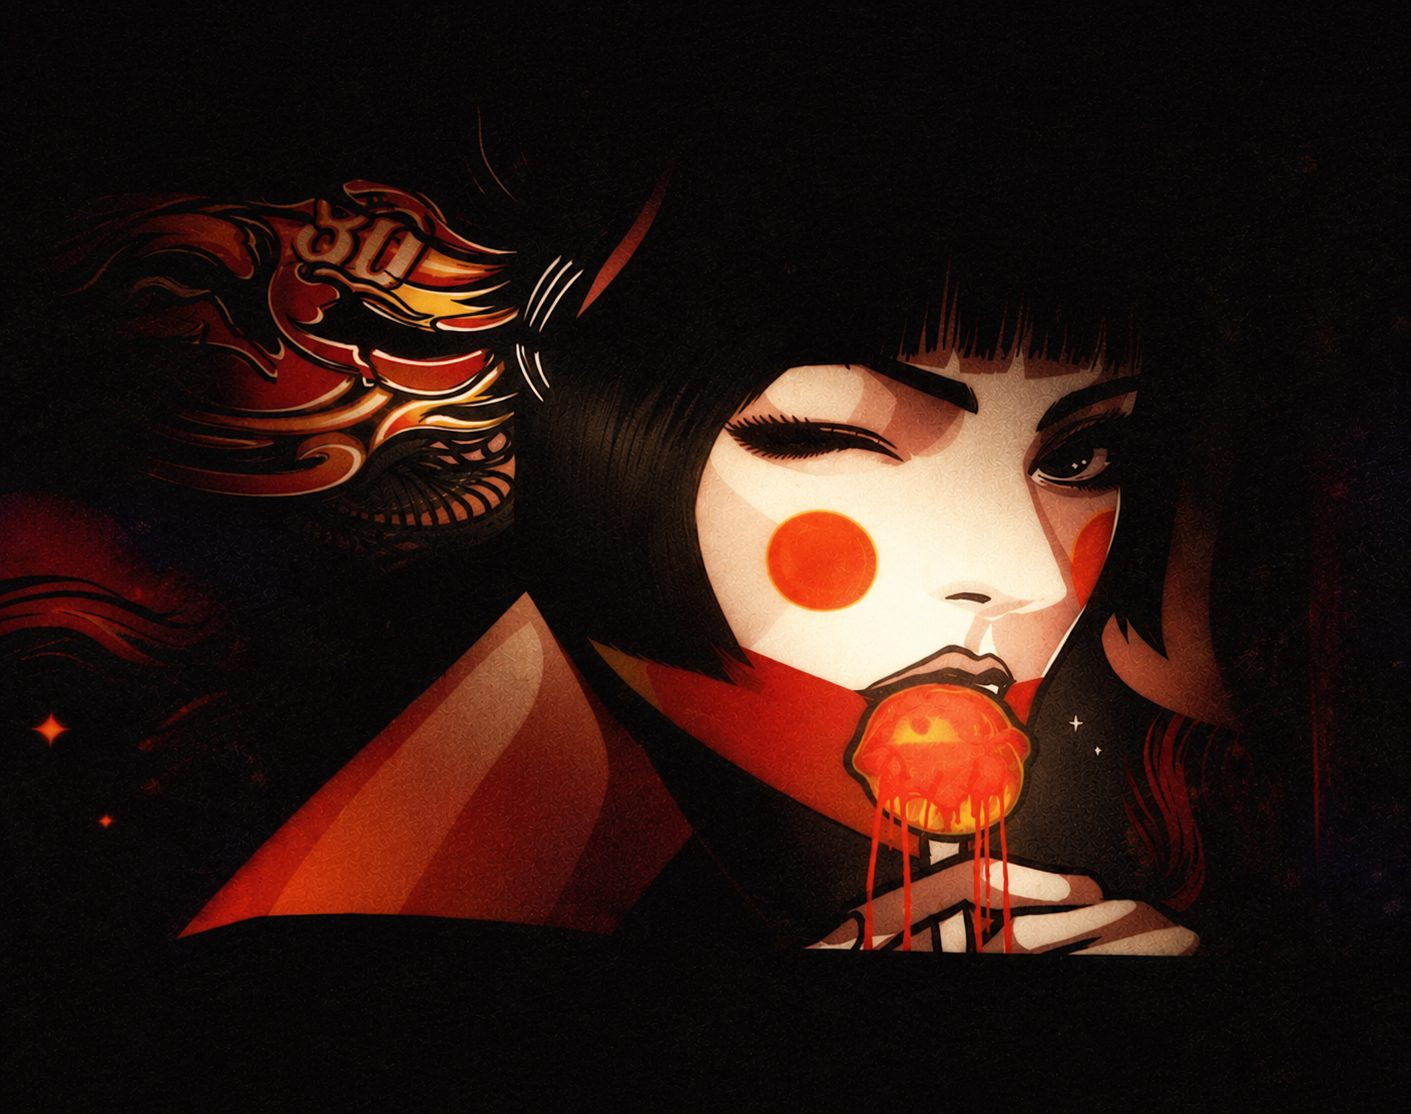
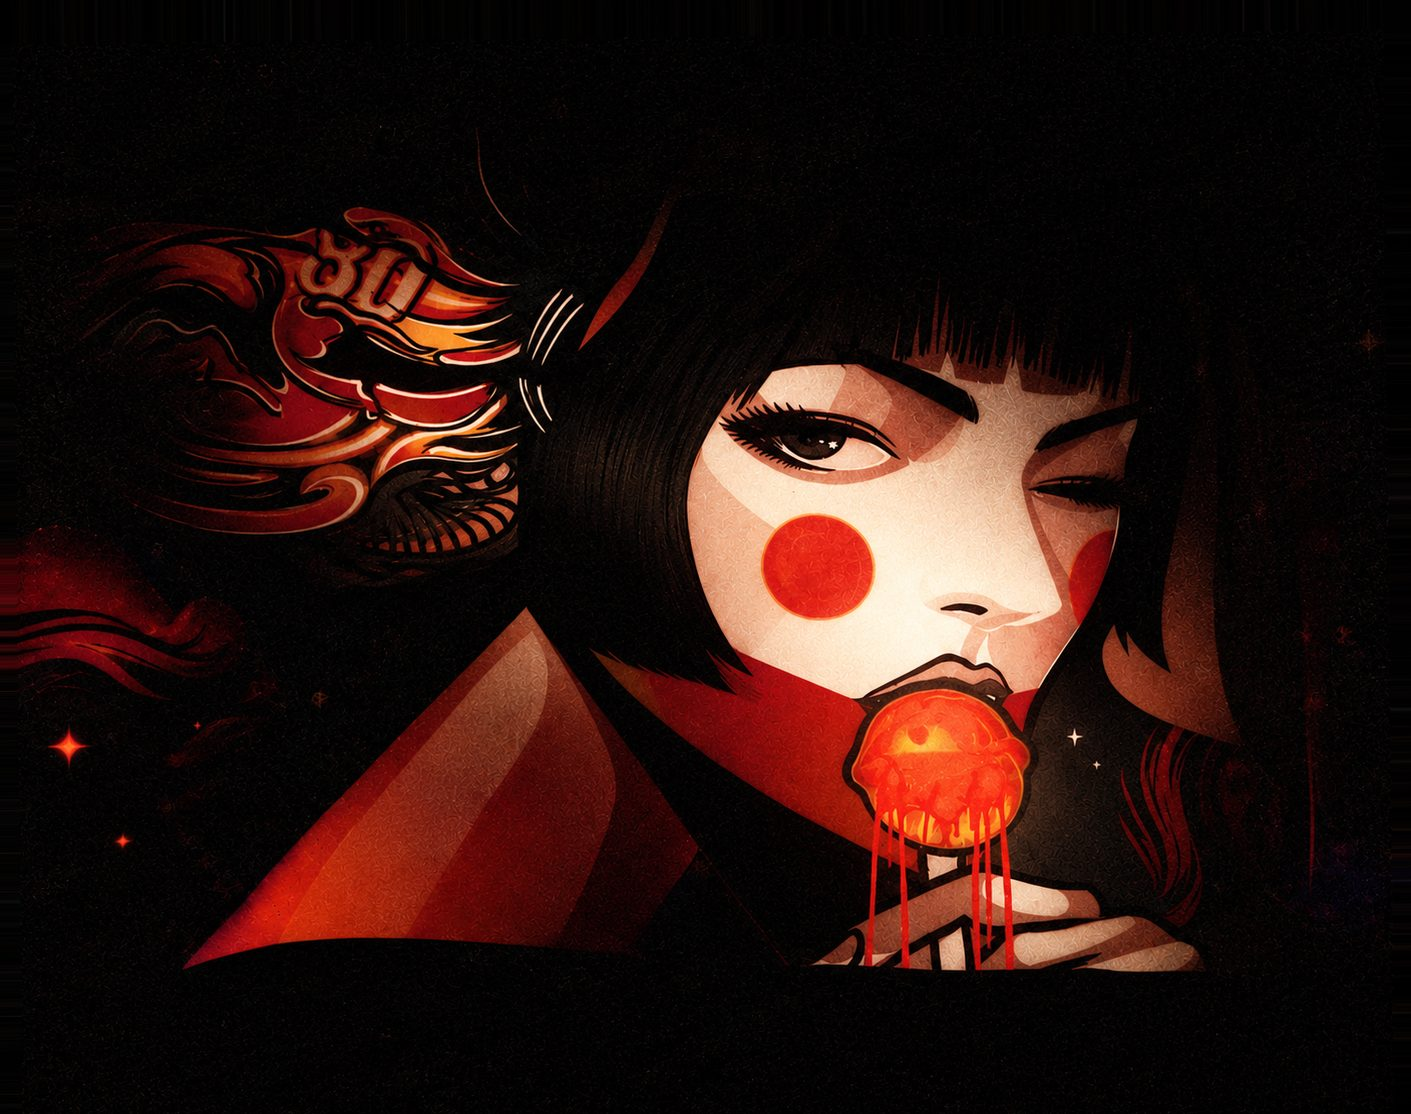
New winking hero image, aligned to the open-eyes art; auto-wink on phones
- Replace hero-bg-wink.jpg with the new winking portrait, registered to the
  open-eyes image (feature-matched scale/rotation/offset) so only the eye
  changes on hover
- Snappier swap (0.12s); phones can't hover, so she winks every ~5.5s

Claude-Session: https://claude.ai/code/session_018BefT7tfZ3R1x1AhJnLC8U

diff --git a/src/app/globals.css b/src/app/globals.css
@@ -44,7 +44,7 @@ body {
 /* hero */
 .hero-bg {
   opacity: 0.4;
-  transition: opacity 0.25s ease;
+  transition: opacity 0.12s ease;
 }
 .hero-bg-wink {
   opacity: 0;
@@ -515,6 +515,19 @@ body {
 /* ───────── phone hero ───────── */
 .hero-mobile .hero-bg {
   opacity: 0.45;
+}
+/* phones can't hover — she winks on her own every few seconds */
+.hero-mobile .auto-wink {
+  opacity: 0;
+  animation: autowink 5.5s ease-in-out 2s infinite;
+}
+@keyframes autowink {
+  0%, 84%, 100% {
+    opacity: 0;
+  }
+  87%, 95% {
+    opacity: 0.45;
+  }
 }
 .nav-link-m {
   font-family: var(--font-display);

diff --git a/src/components/hero.tsx b/src/components/hero.tsx
@@ -67,6 +67,7 @@ function HeroMobile() {
   return (
     <section aria-label="Mosh Rooms" className="hero hero-mobile relative flex h-svh min-h-[580px] flex-col overflow-hidden bg-[#101215] md:hidden">
       <Image src="/images/hero-bg.jpg" alt="" fill preload sizes="100vw" className="hero-bg object-cover object-[62%_50%]" />
+      <Image src="/images/hero-bg-wink.jpg" alt="" fill sizes="100vw" className="hero-bg hero-bg-wink auto-wink object-cover object-[62%_50%]" />
 
       <div className="relative mx-4 mt-3 h-px bg-rule" />
       <nav aria-label="Main" className="relative flex items-start justify-between px-5 pt-2">
